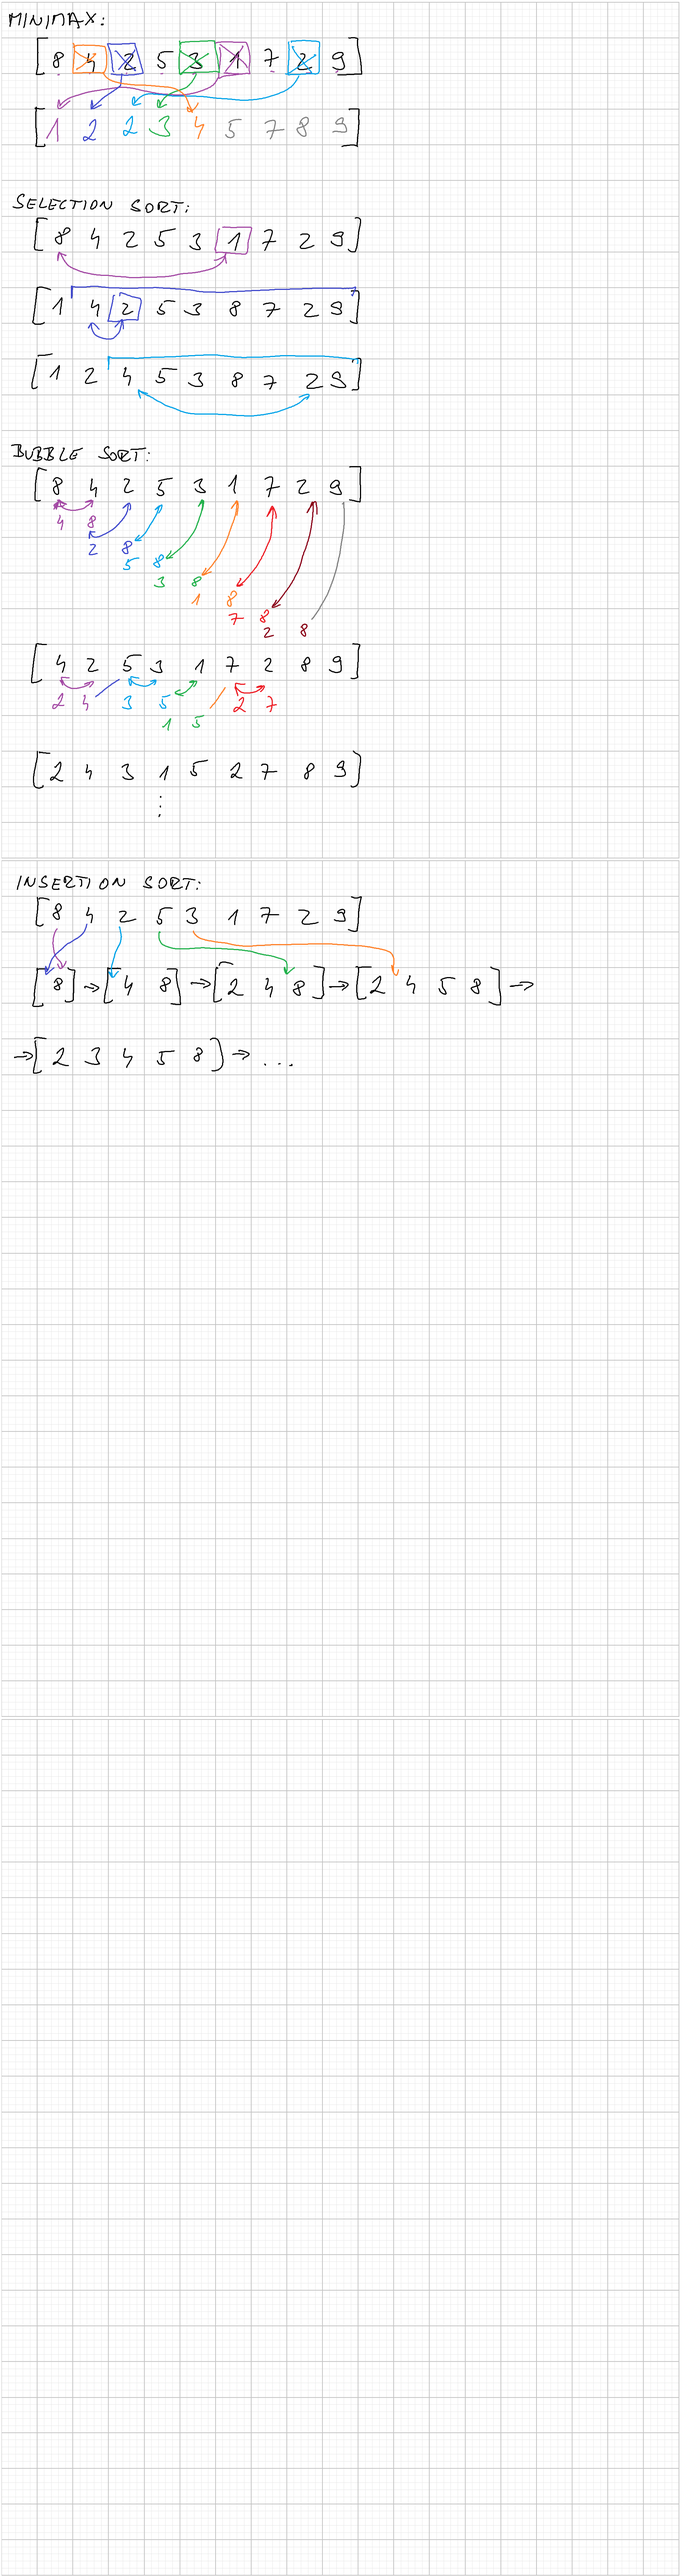
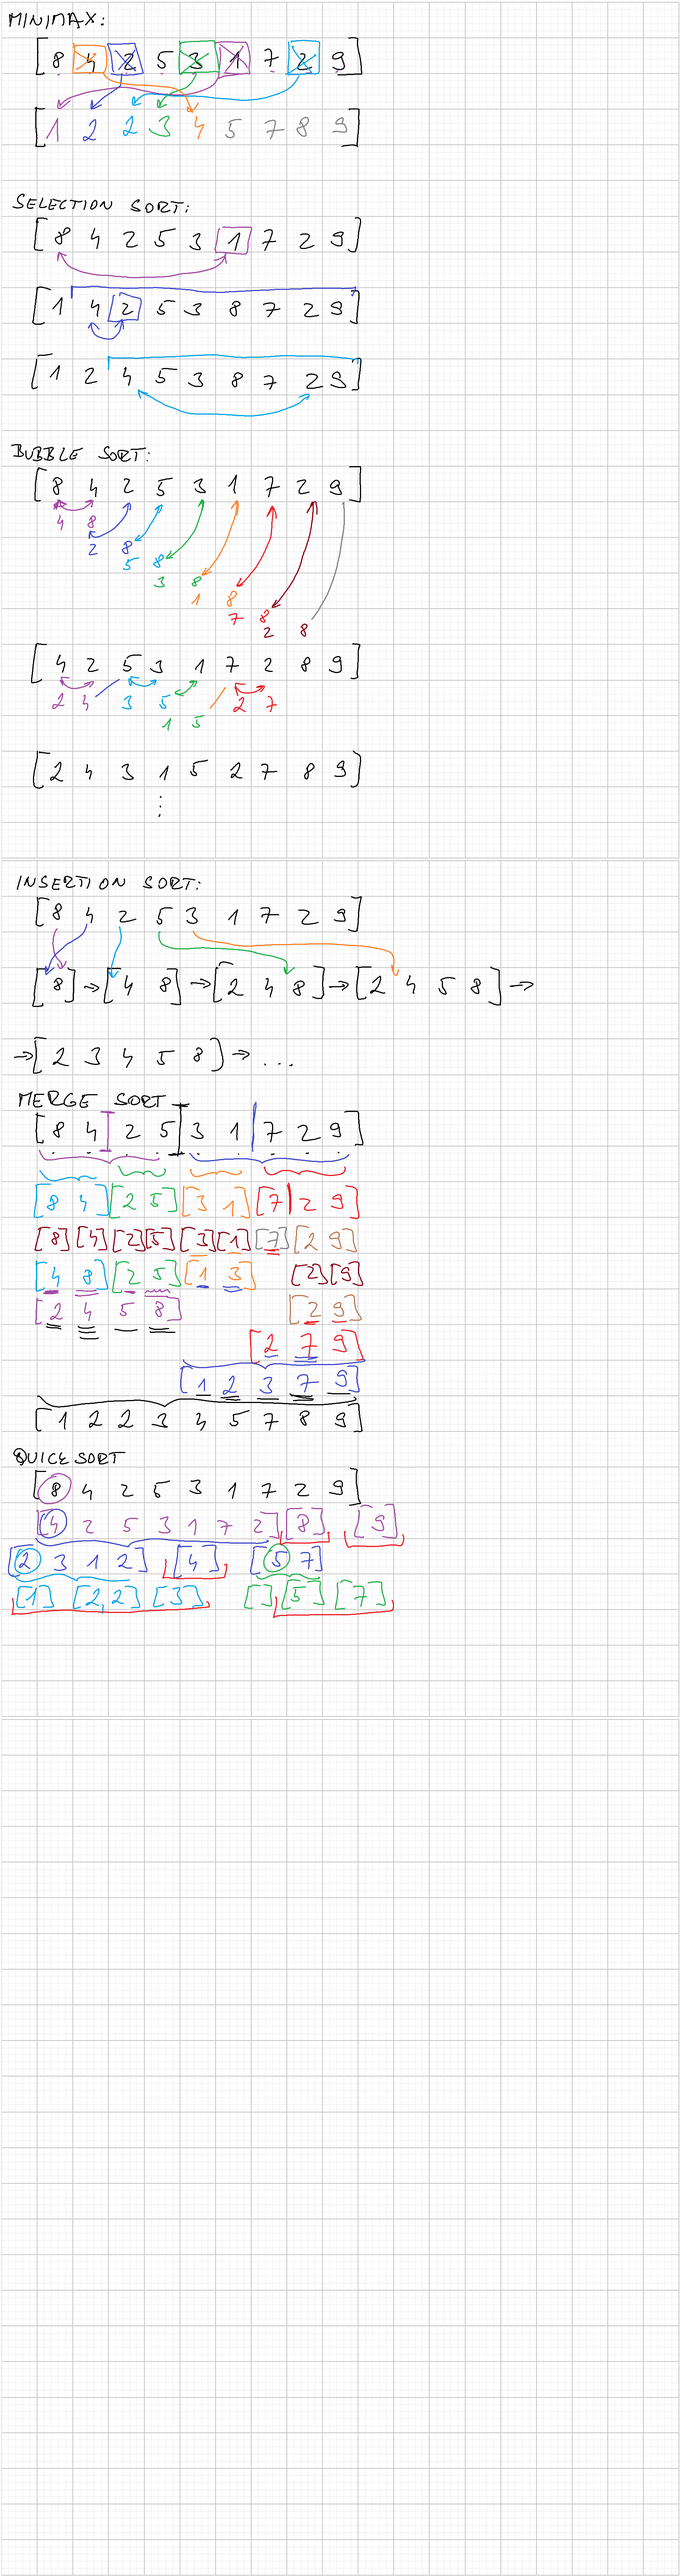
Algorithms - sorting - part 2.

diff --git a/p22_merge_sort.py b/p22_merge_sort.py
@@ -1,0 +1,43 @@
+from typing import List
+
+
+def merge_sort(arr: List[int]) -> List[int]:
+    #print(arr)
+    if len(arr) > 1:
+        # rozdělíme pole na dvě části (skoro poloviny)
+        mid = len(arr) // 2
+        left = arr[:mid]
+        right = arr[mid:]
+
+        # na každé toto menší pole aplikujeme merge_sort (rekurze)
+        merge_sort(left)
+        merge_sort(right)
+
+        # sloučení obou částí do jednoho (seřazeného) seznamu
+        left_index = right_index = merged_index = 0
+        while left_index < len(left) and right_index < len(right):
+            if left[left_index] < right[right_index]:
+                arr[merged_index] = left[left_index]
+                left_index += 1
+            else:
+                arr[merged_index] = right[right_index]
+                right_index += 1
+            merged_index += 1
+
+        # přidáme zbývající hodnoty z levého seznamu
+        while left_index < len(left):
+            arr[merged_index] = left[left_index]
+            left_index += 1
+            merged_index += 1
+
+        # přidáme zbývající hodnoty z pravého seznamu
+        while right_index < len(right):
+            arr[merged_index] = right[right_index]
+            right_index += 1
+            merged_index += 1
+
+
+if __name__ == '__main__':
+    numbers = [8, 4, 2, 5, 3, 1, 7, 2, 9]
+    merge_sort(numbers)
+    print(numbers)

diff --git a/p26_Exercise_G_String_length_sort.py b/p26_Exercise_G_String_length_sort.py
@@ -1,0 +1,24 @@
+"""
+Uspořádáme texty v seznamu podle délky:
+["Ahoj", "Hello", "Hi", "Nazdar", "Čau"] -> ["Hi", "Čau", "Ahoj", "Hello", "Nazdar"]
+
+BONUS: Pokud mají slova stejnou délku, řadíme abecedně.
+"""
+
+
+def string_length_quicksort(arr):
+    if len(arr) <= 1:
+        return arr
+    pivot = arr[0]
+    len_pivot = len(arr[0])
+    middle = ([x for x in arr if len(x) == len_pivot and x < pivot] +
+              [x for x in arr if len(x) == len_pivot and x == pivot] +
+              [x for x in arr if len(x) == len_pivot and x > pivot])
+    left = [x for x in arr if len(x) < len_pivot]
+    right = [x for x in arr if len(x) > len_pivot]
+    return string_length_quicksort(left) + middle + string_length_quicksort(right)
+
+
+if __name__ == '__main__':
+    strings = ["Pápá", "Ahoj", "Hello", "Hi", "Nazdar", "Čau"]
+    print(string_length_quicksort(strings))

diff --git a/p24_Exercise_E_Abs_sort.py b/p24_Exercise_E_Abs_sort.py
@@ -1,0 +1,22 @@
+"""
+Zadání: Chceme neuspořádaný seznam čísel uspořádat podle
+absolutní hodnoty:
+[2, -5, 3, -2, 2, 1, -1, -9, -7, 8] -> [-1, 1, -2, 2, 2, 3, -5, -7, 8, -9]
+"""
+
+
+def abs_quicksort(arr):
+    # Sorting by absolute value
+    # Sorting by value in case of same absolute values [2, -2, 2] -> [-2, 2, 2]
+    if len(arr) <= 1:
+        return arr
+    pivot = abs(arr[0])
+    middle = [x for x in arr if abs(x) == pivot and x < 0] + [x for x in arr if abs(x) == pivot and x > 0]
+    left = [x for x in arr if abs(x) < pivot]
+    right = [x for x in arr if abs(x) > pivot]
+    return abs_quicksort(left) + middle + abs_quicksort(right)
+
+
+if __name__ == '__main__':
+    numbers = [2, -5, 3, -2, 2, 1, -1, -9, -7, 8, 5, -8, 9, 5, -5]
+    print(abs_quicksort(numbers))

diff --git a/p23_quicksort.py b/p23_quicksort.py
@@ -1,0 +1,18 @@
+def quicksort(arr):
+    if len(arr) <= 1:
+        return arr
+    # pokud seznam obsahuje alespoň dva prvky
+    # vyberu pivot -> do seznamu middle
+    pivot = arr[0]
+    middle = [x for x in arr if x == pivot]
+    # všechny hodnoty menší, než pivot -> left
+    left = [x for x in arr if x < pivot]
+    # všechny hodnoty větší, než pivot -> right
+    right = [x for x in arr if x > pivot]
+    # spojíme quicksort(left) + middle + quicksort(right)
+    return quicksort(left) + middle + quicksort(right)
+
+
+if __name__ == '__main__':
+    numbers = [8, 4, 2, 5, 3, 1, 7, 2, 9]
+    print(quicksort(numbers))

diff --git a/p27_Exercise_H_2D_points_sort.py b/p27_Exercise_H_2D_points_sort.py
@@ -1,0 +1,17 @@
+"""Třídění bodů v rovině (2D bodů)
+Napište program, který seřadí seznam bodů v rovině podle jejich vzdálenosti od počátku (0,0).
+Body budou reprezentovány souřadnicemi v tuple:
+[(1, 0), (1, 1), (2, 5), (3, 2), (4, 5), (0, 1), (5, 1)]
+
+BONUS: Pokud mají dva body stejnou vzdálenost, seřaďte je podle jejich úhlu vzhledem k ose X.
+"""
+
+
+def abs_2d_points_quicksort(arr):
+    # TODO: implementovat funkci abs_2d_points_sort
+    return arr
+
+
+if __name__ == '__main__':
+    points = [(1, 0), (1, 1), (2, 5), (3, 2), (4, 5), (0, 1), (5, 1)]
+    print(abs_2d_points_quicksort(points))

diff --git a/p28_Exercise_I_Number_of_dividers_sort.py b/p28_Exercise_I_Number_of_dividers_sort.py
@@ -1,0 +1,16 @@
+"""Třídění kladných celých čísel podle počtu celočíselných dělitelů:
+[5, 8, 12, 16, 1, 17, 30, 3, 9, 30, 101, 101] -> [1, 3, 5, 17, 101, 101, 9, 8, 16, 12, 30, 30]
+
+BONUS: Optimalizujte hledání pomocí dynamického programování tak,
+abyste pro zadané číslo hledali počet dělitelů jenom jednou.
+"""
+
+
+def number_of_dividers_quicksort(arr):
+    # TODO: implementovat funkci number_of_dividers_sort
+    return arr
+
+
+if __name__ == '__main__':
+    numbers = [5, 8, 12, 16, 1, 17, 30, 3, 9, 30, 101, 101]
+    print(number_of_dividers_quicksort(numbers))

diff --git a/p25_Exercise_F_Odd_even_sort.py b/p25_Exercise_F_Odd_even_sort.py
@@ -1,0 +1,16 @@
+"""
+Uspořádáme seznam celých čísel tak,
+že nejprve budou všechna lichá čísla (uspořádaná podle velikosti)
+a následně všechna sudá čísla (uspořádaná podle velikosti).
+[5, 3, 4, 2, -6, 7, -7, 8, 1, 2] -> [-7, 1, 3, 5, 7, -6, 2, 2, 4, 8]
+"""
+from p23_quicksort import quicksort
+
+
+def odd_even_quicksort(arr):
+    return quicksort([x for x in arr if x % 2]) + quicksort([x for x in arr if x % 2 == 0])
+
+
+if __name__ == '__main__':
+    unsorted = [5, 3, 4, 2, -6, 7, -7, 8, 1, 2]
+    print(odd_even_quicksort(unsorted))
